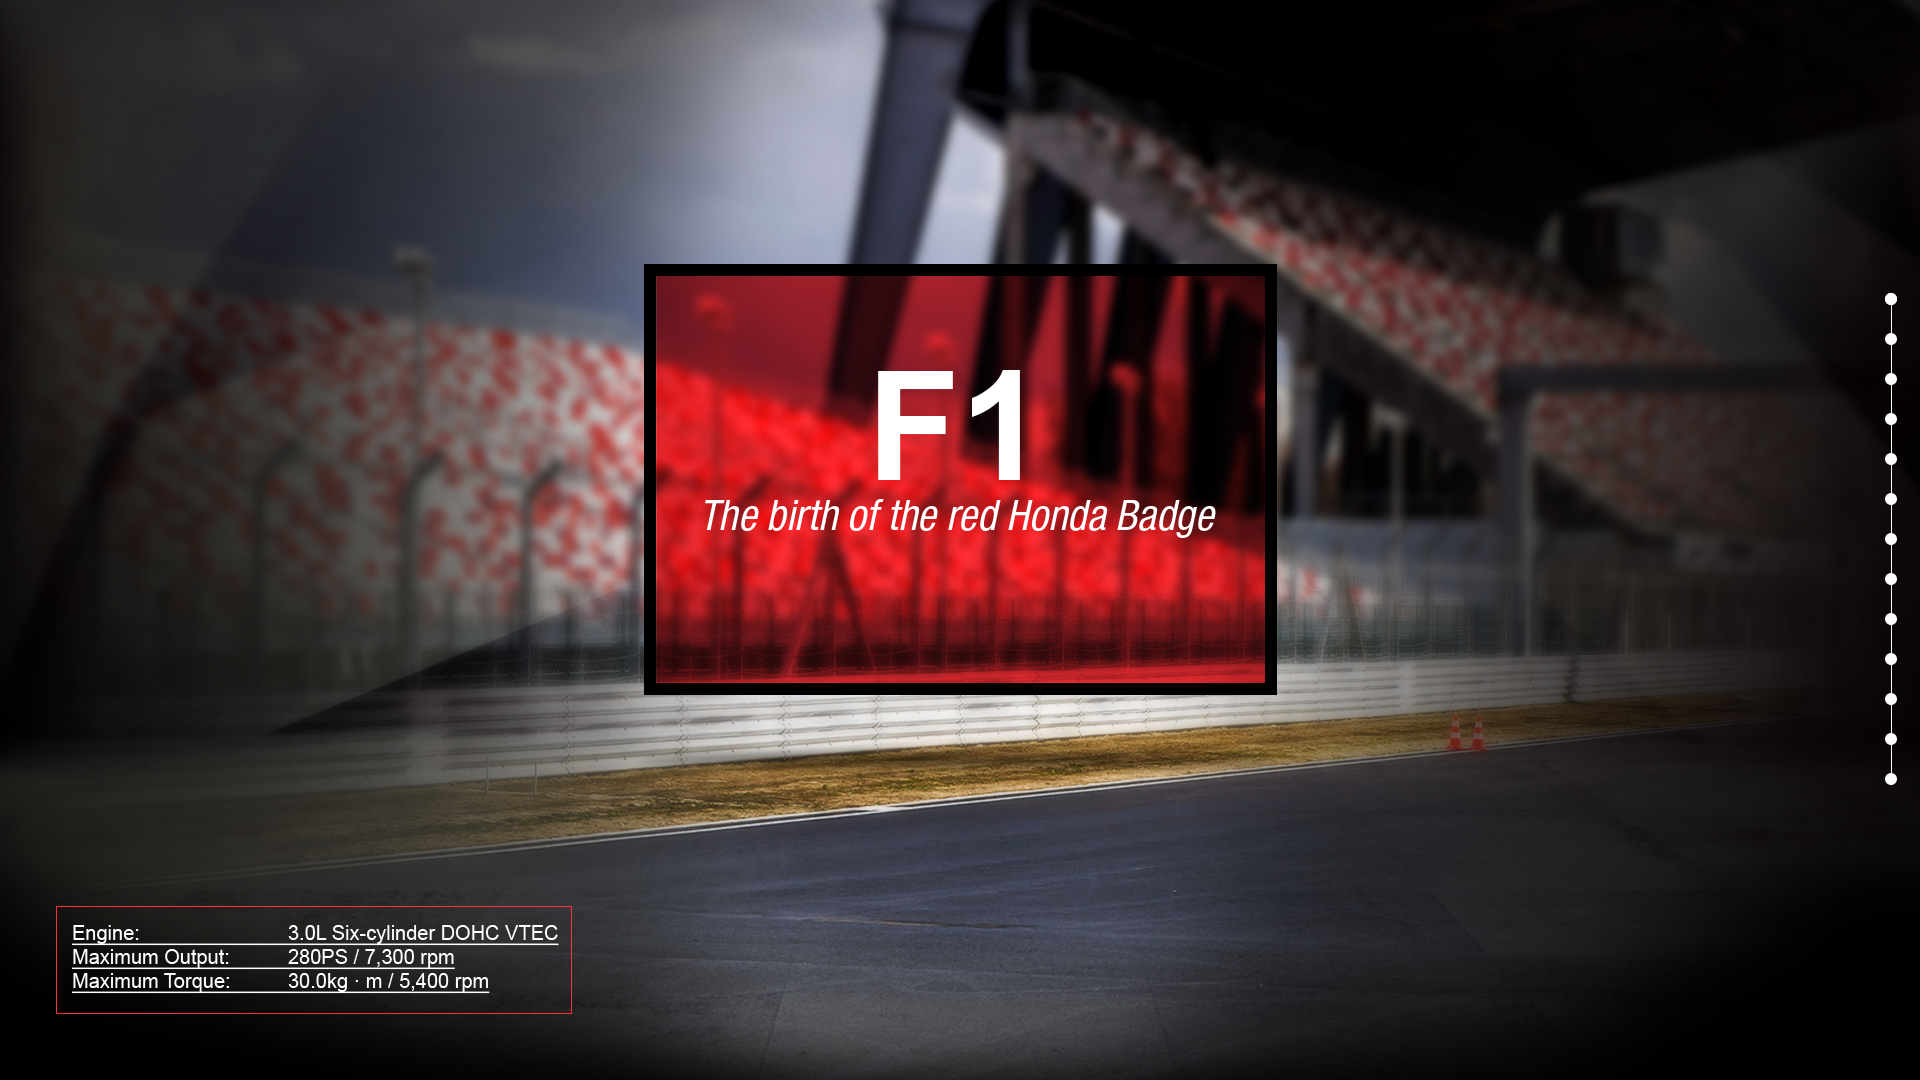
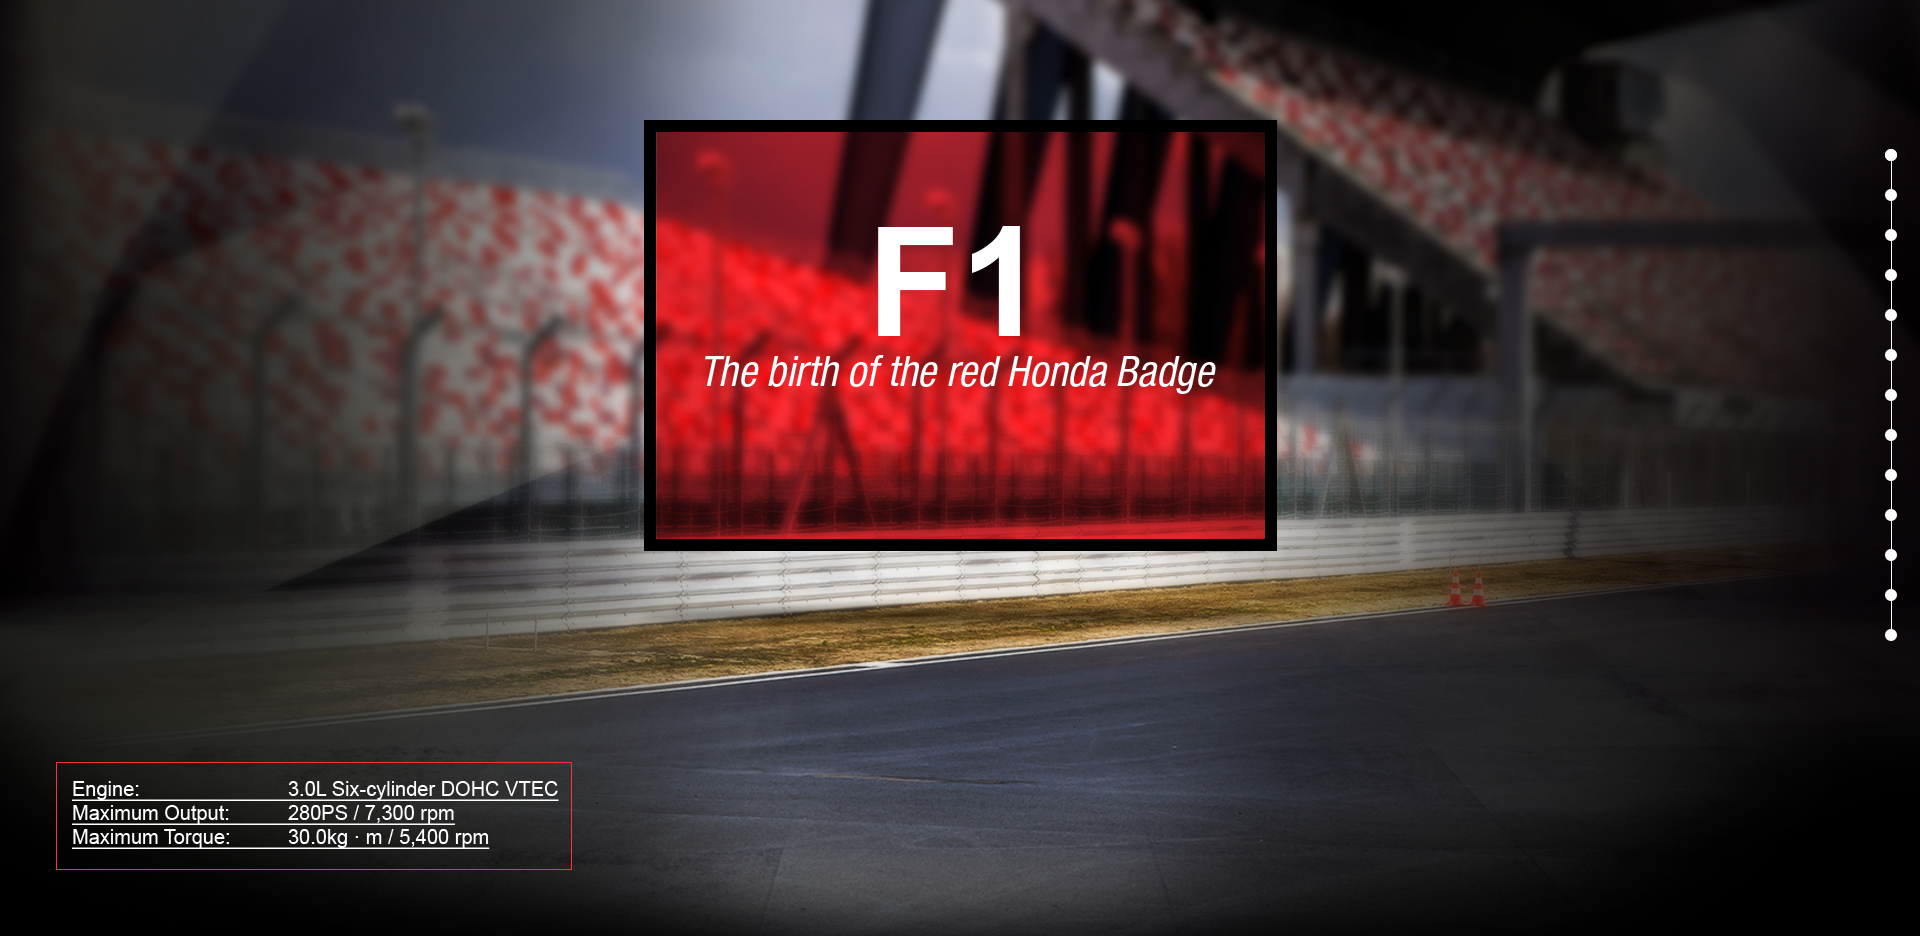
Include header
Altered formatting for header

diff --git a/quick-start.html b/quick-start.html
@@ -30,8 +30,7 @@
 		<!-- Change Text to White -->
 		<style type="text/css">
             .content{
-                position: relative;
-                top:70px;
+                position:relative;
             }
             
 			.ms-layer { 
@@ -61,7 +60,7 @@
 
         <!--header to be moved to fixed position infront of content-->
         
-        <div style ="width:100%;height:180px;margin:auto;z-index:100;background: #fff;position: absolute;">
+        <div style ="width:100%;height:155px;margin:auto;z-index:100;background: #fff; position:fixed;">
             <h1 >Honda Header Banner Size</h1>
         </div>
        
@@ -165,7 +164,7 @@
              data-delay="800"
              data-hide-effect="fade" 
              src="masterslider/blank.gif"
-             data-src="masterslider/images/Slide 1/honda-car-1-c.png" 
+             data-src="masterslider/images/Slide 1/car-1-c.png" 
         />
 
         
@@ -234,7 +233,7 @@
                 data-delay="800"
                 data-hide-effect="fade" 
                 src="masterslider/blank.gif"
-                data-src="masterslider/images/Slide 2/honda-car-2-c.png" 
+                data-src="masterslider/images/Slide 2/car-2-c.png" 
              />
         
         
@@ -284,10 +283,10 @@
         
 
         <!--Link to imbedded slide-->
-        <a href="masterslider/images/test-images/02.jpg" title="Embedded Slide 1" data-jbox-image="gallery1"></a>
-        <a href="masterslider/images/test-images/04.jpg" title="Embedded Slide 2" data-jbox-image="gallery1"></a>
-        <a href="masterslider/images/test-images/05.jpg" title="Embedded Slide 3" data-jbox-image="gallery1"></a>
-        <a href="masterslider/images/test-images/09.jpg" title="Embedded Slide 3" data-jbox-image="gallery1"></a>
+        <a href="masterslider/images/test-images/02.jpg" title="" data-jbox-image="gallery1"></a>
+        <a href="masterslider/images/test-images/04.jpg" title="" data-jbox-image="gallery1"></a>
+        <a href="masterslider/images/test-images/05.jpg" title="" data-jbox-image="gallery1"></a>
+        <a href="masterslider/images/test-images/09.jpg" title="" data-jbox-image="gallery1"></a>
         
 
         <!--<a href="masterslider/simple-fade-slideshow.slider/with-jquery.html"></a>-->
@@ -308,7 +307,7 @@
                 data-delay="800"
                 data-hide-effect="fade"
                 src="masterslider/blank.gif"
-                data-src="masterslider/images/Slide 3/honda-car-3-clickable-c.png" />
+                data-src="masterslider/images/Slide 3/car-3-c.png" />
    
 
 
